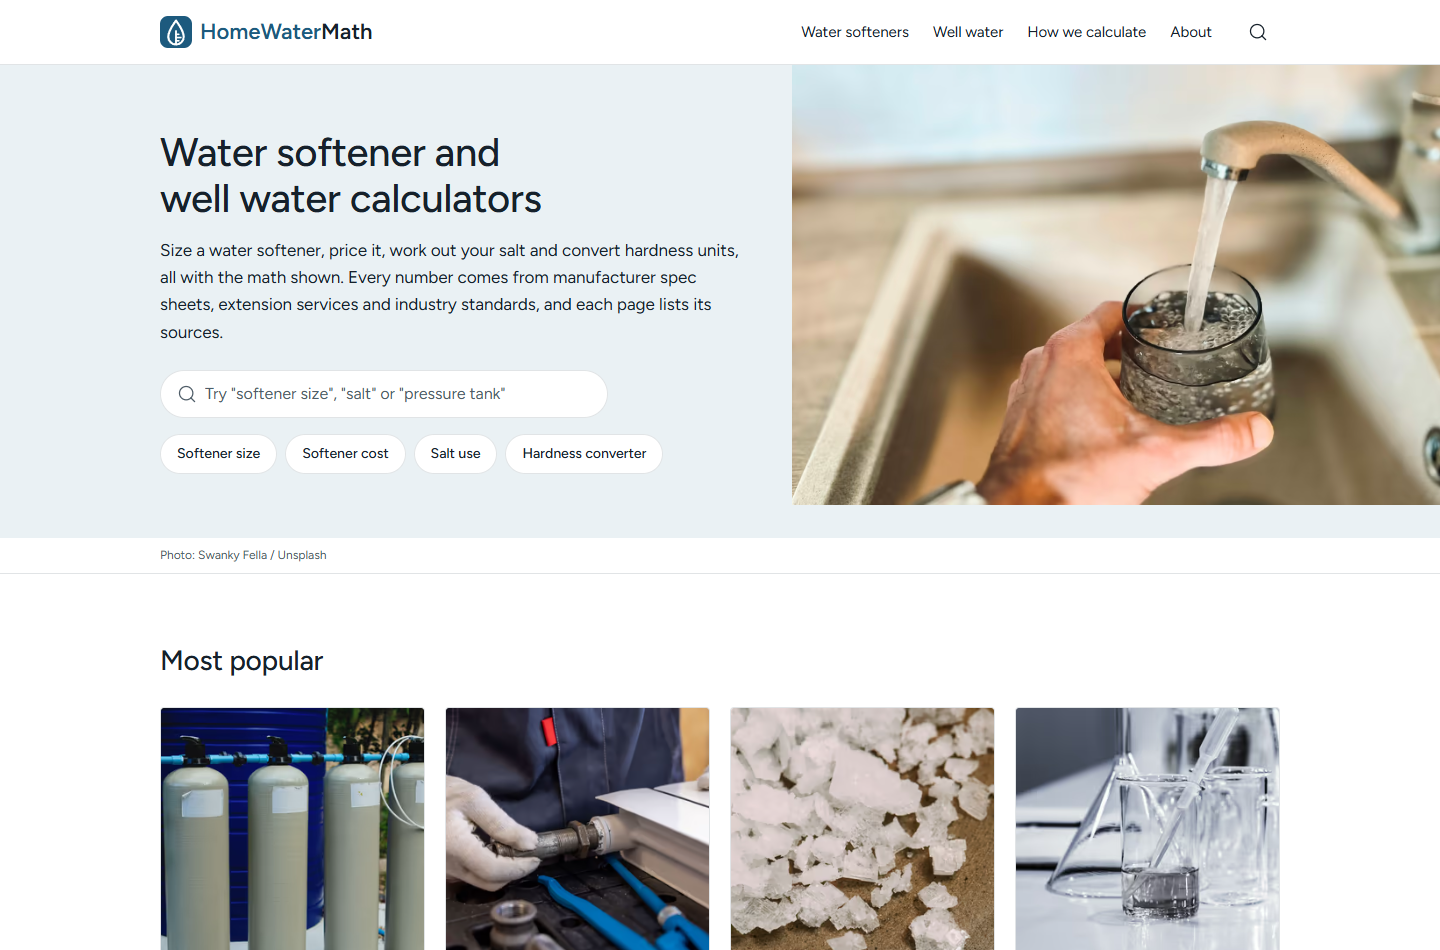
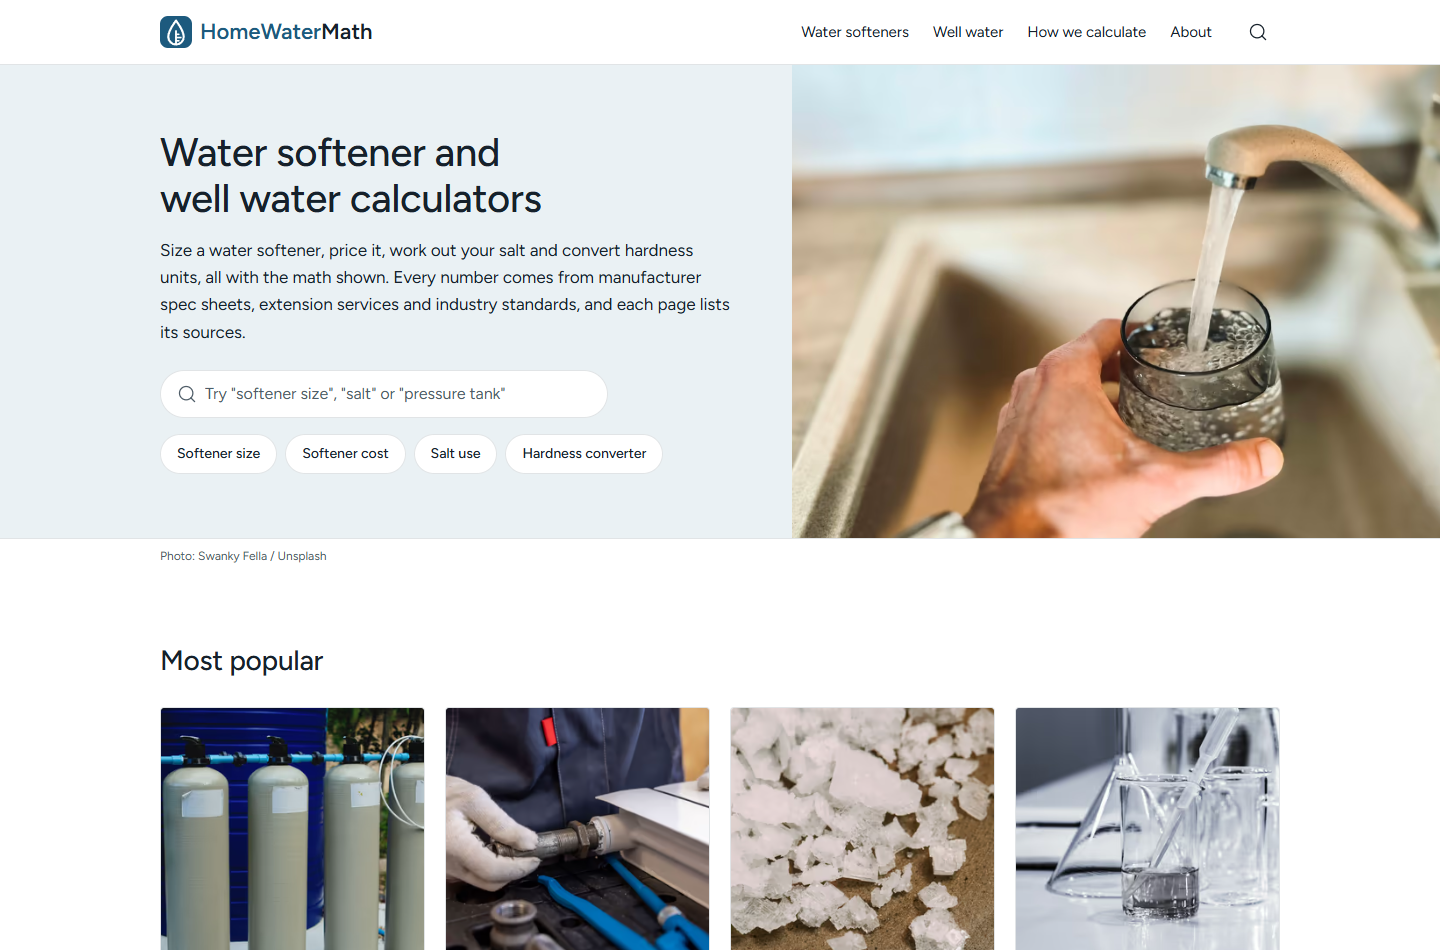
Fix file 02: scrollbar-safe hero alignment and tile arrow wrap
- Hero text now lives inside the shared .container-hw instead of using
  100vw padding math, so its left edge matches the logo and section
  headings even when a vertical scrollbar is present. The photo is placed
  edge-to-edge on the right (absolute on desktop, in flow on mobile, one
  element so it is fetched once). Measured logo = H1 = "Most popular" H2
  left at 1280/1440/1920 (diff 0) with a forced 15px scrollbar.
- Tile names split on the last space; the last word and the arrow are
  wrapped in a whitespace-nowrap span so the arrow always stays on the
  same line as the last word when the name wraps.

Changed region(s): [[0.5312, 0.0611, 1.0, 0.58], [0.0938, 0.2442, 0.5, 0.3663], [0.125, 0.58, 0.2188, 0.6105]]

diff --git a/app/page.tsx b/app/page.tsx
@@ -33,72 +33,74 @@ export default function HomePage() {
 
   return (
     <>
-      {/* Hero */}
-      <section className="border-b border-line">
-        <div className="grid md:grid-cols-[55%_45%]">
-          <div className="order-1 bg-band-1">
-            {/* Reserve the mobile block height so a web-font swap can't reflow
-                the text and push the hero image (kills layout shift) and keeps
-                the text block the largest element (LCP) on mobile. */}
-            <div className="hero-text flex min-h-[640px] flex-col justify-center py-10 md:min-h-0 md:py-16">
-              <h1 className="max-w-[16ch] text-[30px] font-medium leading-[1.15] tracking-[-0.01em] md:text-[40px]">
-                {getPage('/')?.h1}
-              </h1>
-              <p className="mt-4 max-w-prose68 text-[17px] text-ink">{HOME.heroIntro}</p>
-              <div className="mt-6">
-                <HeroSearch placeholder={HOME.searchPlaceholder} />
-              </div>
-              <ul className="mt-4 flex flex-wrap gap-2">
-                {HOME.chips.map((chip) => (
-                  <li key={chip.href}>
-                    <Link
-                      href={chip.href}
-                      prefetch={false}
-                      className="inline-flex min-h-[40px] items-center rounded-pill border border-line bg-surface px-4 text-[14px] font-medium text-ink hover:border-brand"
-                    >
-                      {chip.label}
-                    </Link>
-                  </li>
-                ))}
-              </ul>
+      {/* Hero. Full-bleed mist background; the photo is edge-to-edge on the
+          right. The text sits inside the shared container (no 100vw math) so its
+          left edge always matches the logo and the section headings below, even
+          with a vertical scrollbar present. */}
+      <section className="relative overflow-hidden border-b border-line bg-band-1">
+        {hero && (
+          /* Preload so the hero paints fast and isn't deprioritized as a lazy
+             image (which inflated LCP). */
+          <link
+            rel="preload"
+            as="image"
+            type="image/avif"
+            // eslint-disable-next-line @typescript-eslint/no-explicit-any
+            {...({
+              imageSrcSet: `/photos/${hero.baseName}-640.avif 640w, /photos/${hero.baseName}-1280.avif 1280w`,
+              imageSizes: '(min-width: 768px) 45vw, 100vw',
+              fetchPriority: 'high',
+            } as any)}
+          />
+        )}
+        <div className="container-hw relative">
+          {/* Reserve a min height so a web-font swap can't reflow the text, and
+              so the absolutely placed desktop photo has a height to fill. */}
+          <div className="flex min-h-[420px] flex-col justify-center py-10 md:min-h-[440px] md:w-[55%] md:py-16 md:pr-10">
+            <h1 className="max-w-[16ch] text-[30px] font-medium leading-[1.15] tracking-[-0.01em] md:text-[40px]">
+              {getPage('/')?.h1}
+            </h1>
+            <p className="mt-4 max-w-prose68 text-[17px] text-ink">{HOME.heroIntro}</p>
+            <div className="mt-6">
+              <HeroSearch placeholder={HOME.searchPlaceholder} />
             </div>
-          </div>
-          <div className="order-2 bg-band-1">
-            {hero && (
-              <div className="relative h-[220px] w-full md:h-[440px]">
-                {/* Preload so the hero paints fast and isn't deprioritized as a
-                    lazy image (which inflated LCP). */}
-                <link
-                  rel="preload"
-                  as="image"
-                  type="image/avif"
-                  // eslint-disable-next-line @typescript-eslint/no-explicit-any
-                  {...({
-                    imageSrcSet: `/photos/${hero.baseName}-640.avif 640w, /photos/${hero.baseName}-1280.avif 1280w`,
-                    imageSizes: '(min-width: 768px) 45vw, 100vw',
-                    fetchPriority: 'high',
-                  } as any)}
-                />
-                <Picture
-                  baseName={hero.baseName}
-                  alt={hero.alt}
-                  kind="hero"
-                  focalX={hero.focalX}
-                  focalY={hero.focalY}
-                  priority
-                  className="block h-full w-full"
-                  imgClassName="h-full w-full"
-                />
-              </div>
-            )}
+            <ul className="mt-4 flex flex-wrap gap-2">
+              {HOME.chips.map((chip) => (
+                <li key={chip.href}>
+                  <Link
+                    href={chip.href}
+                    prefetch={false}
+                    className="inline-flex min-h-[40px] items-center rounded-pill border border-line bg-surface px-4 text-[14px] font-medium text-ink hover:border-brand"
+                  >
+                    {chip.label}
+                  </Link>
+                </li>
+              ))}
+            </ul>
           </div>
         </div>
+        {/* One photo element: in flow below the text on mobile, absolute on the
+            right half on desktop (so it is fetched once). */}
         {hero && (
-          <div className="container-hw py-2">
-            <p className="text-[12px] text-muted">{HERO_CREDIT}</p>
+          <div className="relative h-[220px] w-full md:absolute md:inset-y-0 md:right-0 md:h-full md:w-[45%]">
+            <Picture
+              baseName={hero.baseName}
+              alt={hero.alt}
+              kind="hero"
+              focalX={hero.focalX}
+              focalY={hero.focalY}
+              priority
+              className="block h-full w-full"
+              imgClassName="h-full w-full"
+            />
           </div>
         )}
       </section>
+      {hero && (
+        <div className="container-hw py-2">
+          <p className="text-[12px] text-muted">{HERO_CREDIT}</p>
+        </div>
+      )}
 
       {/* Most popular */}
       <section className="container-hw py-12 md:py-16" aria-labelledby="popular-heading">

diff --git a/components/PhotoTile.tsx b/components/PhotoTile.tsx
@@ -15,6 +15,11 @@ export default function PhotoTile({ slug }: { slug: string }) {
   const photo = getPhotoForSlug(slug);
   const name = page.h1;
   const blurb = page.cardBlurb ?? '';
+  // Split off the last word so the name can wrap freely while the last word and
+  // the arrow stay on one line together (whitespace-nowrap below).
+  const lastSpace = name.lastIndexOf(' ');
+  const nameHead = lastSpace === -1 ? '' : name.slice(0, lastSpace + 1);
+  const nameLast = lastSpace === -1 ? name : name.slice(lastSpace + 1);
 
   return (
     <Link
@@ -42,7 +47,10 @@ export default function PhotoTile({ slug }: { slug: string }) {
       </div>
       <div className="mt-2">
         <span className="text-[16px] font-medium text-ink group-hover:underline">
-          {name}&nbsp;<ArrowRight className="inline h-4 w-4 align-[-2px] text-brand" strokeWidth={1.5} aria-hidden="true" />
+          {nameHead}
+          <span className="whitespace-nowrap">
+            {nameLast}&nbsp;<ArrowRight className="inline h-4 w-4 align-[-2px] text-brand" strokeWidth={1.5} aria-hidden="true" />
+          </span>
         </span>
       </div>
       {blurb && <p className="mt-0.5 text-[14px] text-muted">{blurb}</p>}

diff --git a/app/globals.css b/app/globals.css
@@ -93,31 +93,6 @@
     font-variant-numeric: tabular-nums;
   }
 
-  /* Hero text column: full-bleed block, but its content must start at the same
-     x as the 1200px container's content at every breakpoint (16/24/40, then
-     centered). The right padding is a gutter before the photo. */
-  .hero-text {
-    padding-left: 16px;
-    padding-right: 16px;
-  }
-  @media (min-width: 768px) {
-    .hero-text {
-      padding-left: 24px;
-      padding-right: 32px;
-    }
-  }
-  @media (min-width: 1024px) {
-    .hero-text {
-      padding-left: 40px;
-      padding-right: 48px;
-    }
-  }
-  @media (min-width: 1200px) {
-    .hero-text {
-      padding-left: calc((100vw - 1200px) / 2 + 40px);
-    }
-  }
-
   .link-brand {
     color: var(--brand);
     text-decoration: underline;
